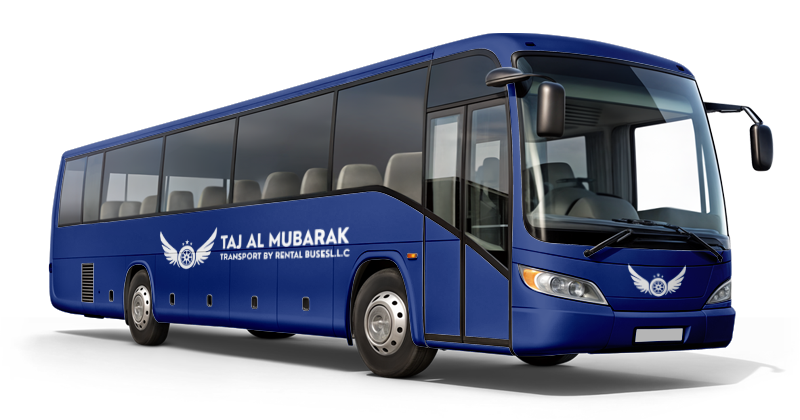
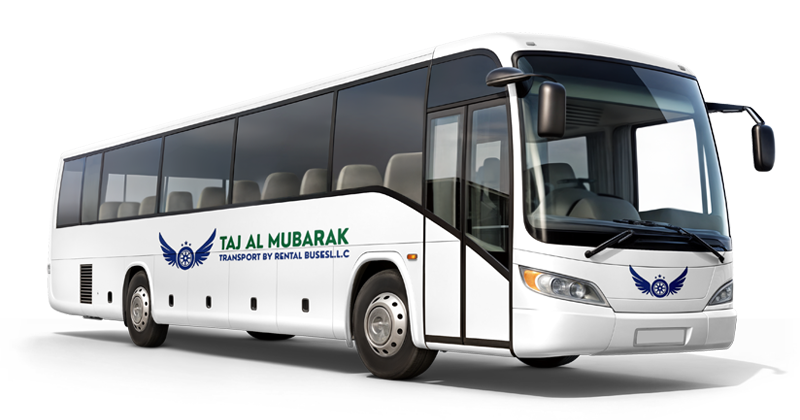
feat: about, bus color and testimonial changes

diff --git a/index.html b/index.html
@@ -584,7 +584,7 @@
     </div>
     <!-- Why Choose Us End -->
     <!-- Testimonials Start -->
-    <div class="bg-accent overflow-hidden">
+    <!-- <div class="bg-accent overflow-hidden">
       <div class="page-size">
         <div class="container-lg px-0">
           <div class="row row-cols-1 row-cols-lg-2 g-5">
@@ -701,11 +701,11 @@
           </div>
         </div>
       </div>
-    </div>
+    </div> -->
     <!-- Tesimonials End -->
     <!-- Get Started Start -->
     <div class="bg-white overflow-hidden">
-      <div class="page-size">
+      <div class="page-size pt-0">
         <div class="bg-heading border-radius fade-in-up">
           <div class="container-lg px-0">
             <div class="row row-cols-1 row-cols-lg-2">

diff --git a/clients.html b/clients.html
@@ -236,7 +236,7 @@
     <!-- Clients End -->
 
     <!-- Testimonials Start -->
-    <div class="bg-accent overflow-hidden">
+    <!-- <div class="bg-accent overflow-hidden">
       <div class="page-size">
         <div class="container-lg px-0">
           <div class="row row-cols-1 row-cols-lg-2 g-5">
@@ -353,12 +353,12 @@
           </div>
         </div>
       </div>
-    </div>
+    </div> -->
     <!-- Testimonials End -->
 
     <!-- Get Started Start -->
     <div class="bg-white">
-      <div class="page-size">
+      <div class="page-size pt-0">
         <div class="bg-heading border-radius fade-in-up">
           <div class="container-lg px-0">
             <div class="row row-cols-1 row-cols-lg-2">

diff --git a/contact.html b/contact.html
@@ -286,7 +286,7 @@
     </div>
     <!-- Contact End -->
     <!-- Testimonials Start -->
-    <div class="bg-accent overflow-hidden">
+    <!-- <div class="bg-accent overflow-hidden">
       <div class="page-size">
         <div class="container-lg px-0">
           <div class="row row-cols-1 row-cols-lg-2 g-5">
@@ -401,7 +401,7 @@
           </div>
         </div>
       </div>
-    </div>
+    </div> -->
     <!-- Tesimonials End -->
   
     <!-- Footer Start -->
